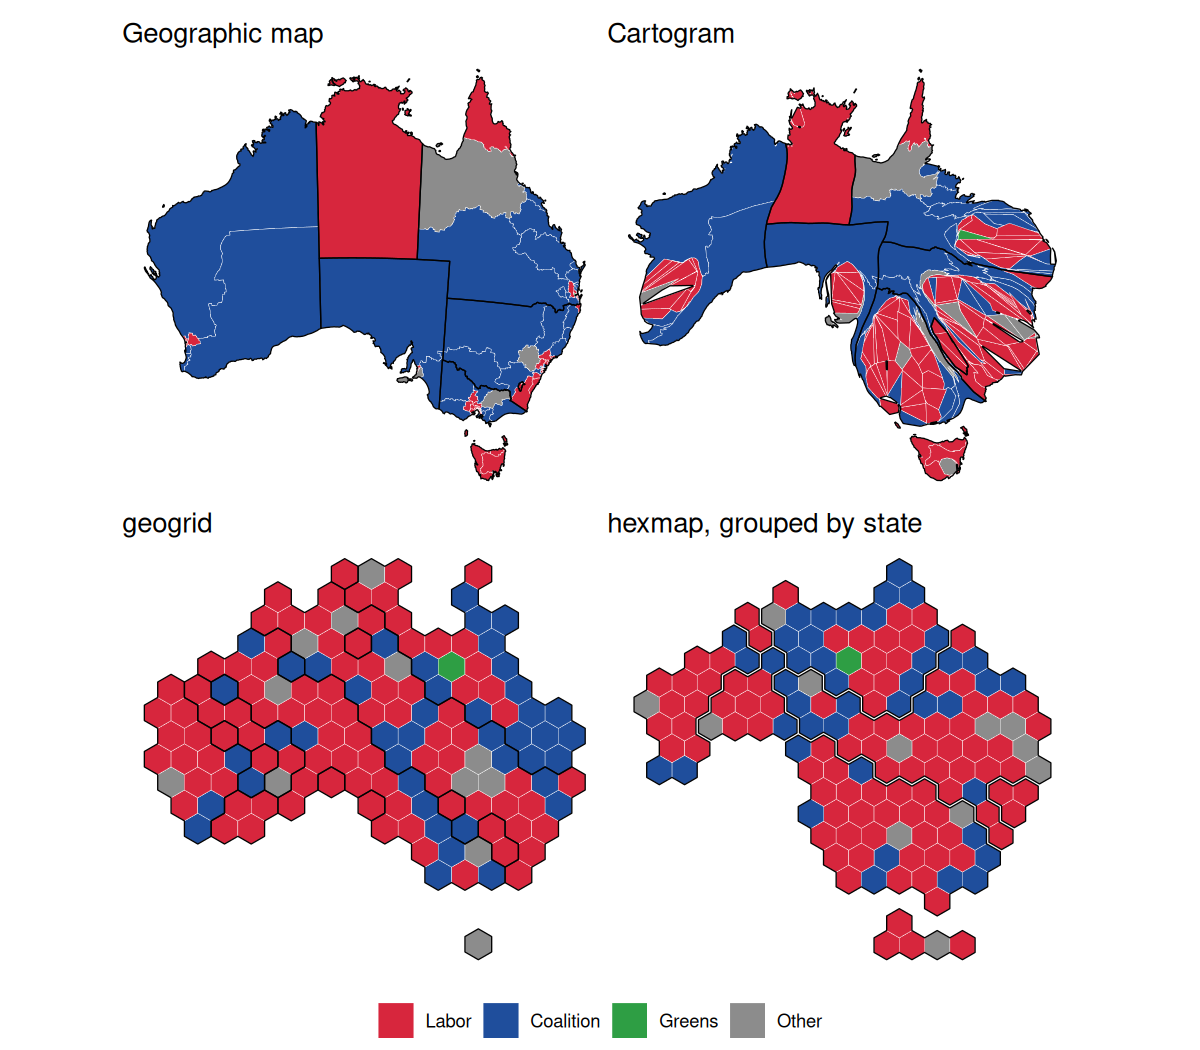
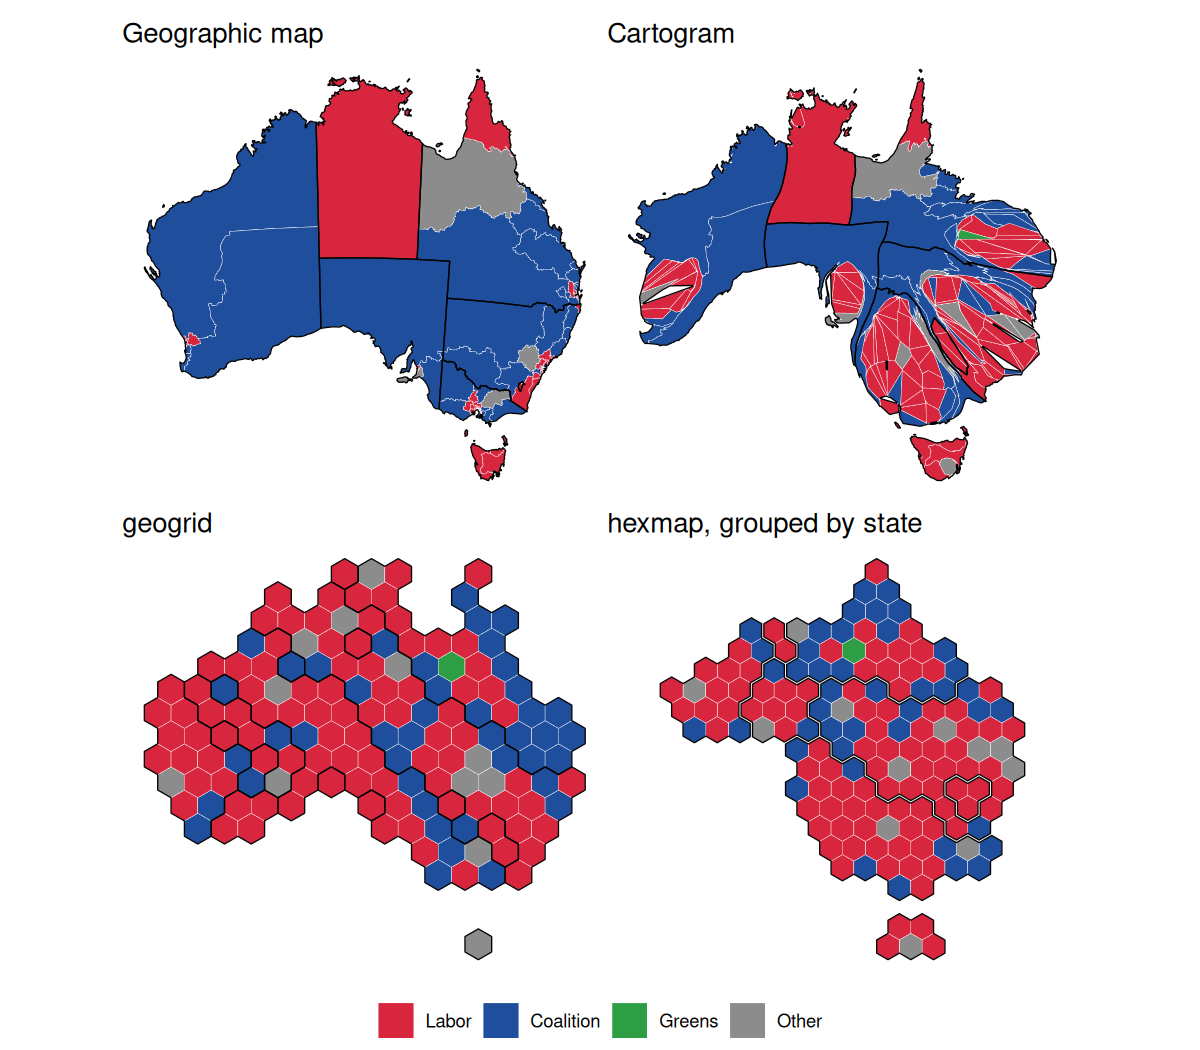
Make layout_hierarchy() the default group layout

Changed region(s): [[0.5242, 0.5181, 0.8942, 0.9143]]

diff --git a/README.md b/README.md
@@ -41,12 +41,13 @@ hexmap(electorates, group = state)
 - **Groups.** With `group`, the hexagons of each group (such as a state)
   are kept together, separated by a small gap (`group_gap`), and touch
   the same neighbouring groups as on the map.
-- **Group layouts.** `group_layout` sets how groups are arranged: warped
-  into a cartogram that keeps each group’s shape (`layout_diffusion()`,
-  the default), compact blocks (`layout_compact()`), a spatial treemap
-  (`layout_slice()`), or groups that keep their own shapes at the
-  expense of the overall outline (`layout_hierarchy()`).
-  `layout_repair()` fixes the borders between groups of any layout.
+- **Group layouts.** `group_layout` sets how groups are arranged: groups
+  that keep their own shapes and positions (`layout_hierarchy()`, the
+  default), a cartogram that keeps more of the overall outline
+  (`layout_diffusion()`), compact blocks (`layout_compact()`), or a
+  spatial treemap (`layout_slice()`). `layout_repair()` fixes the
+  borders between groups of any layout. See `vignette("layouts")` for
+  how they compare.
 - **Islands.** Distant landmasses, such as Tasmania, are tiled
   separately and kept apart from the mainland (`island_gap`).
 - **Projections.** Hexagons are regular in the projection they are made
